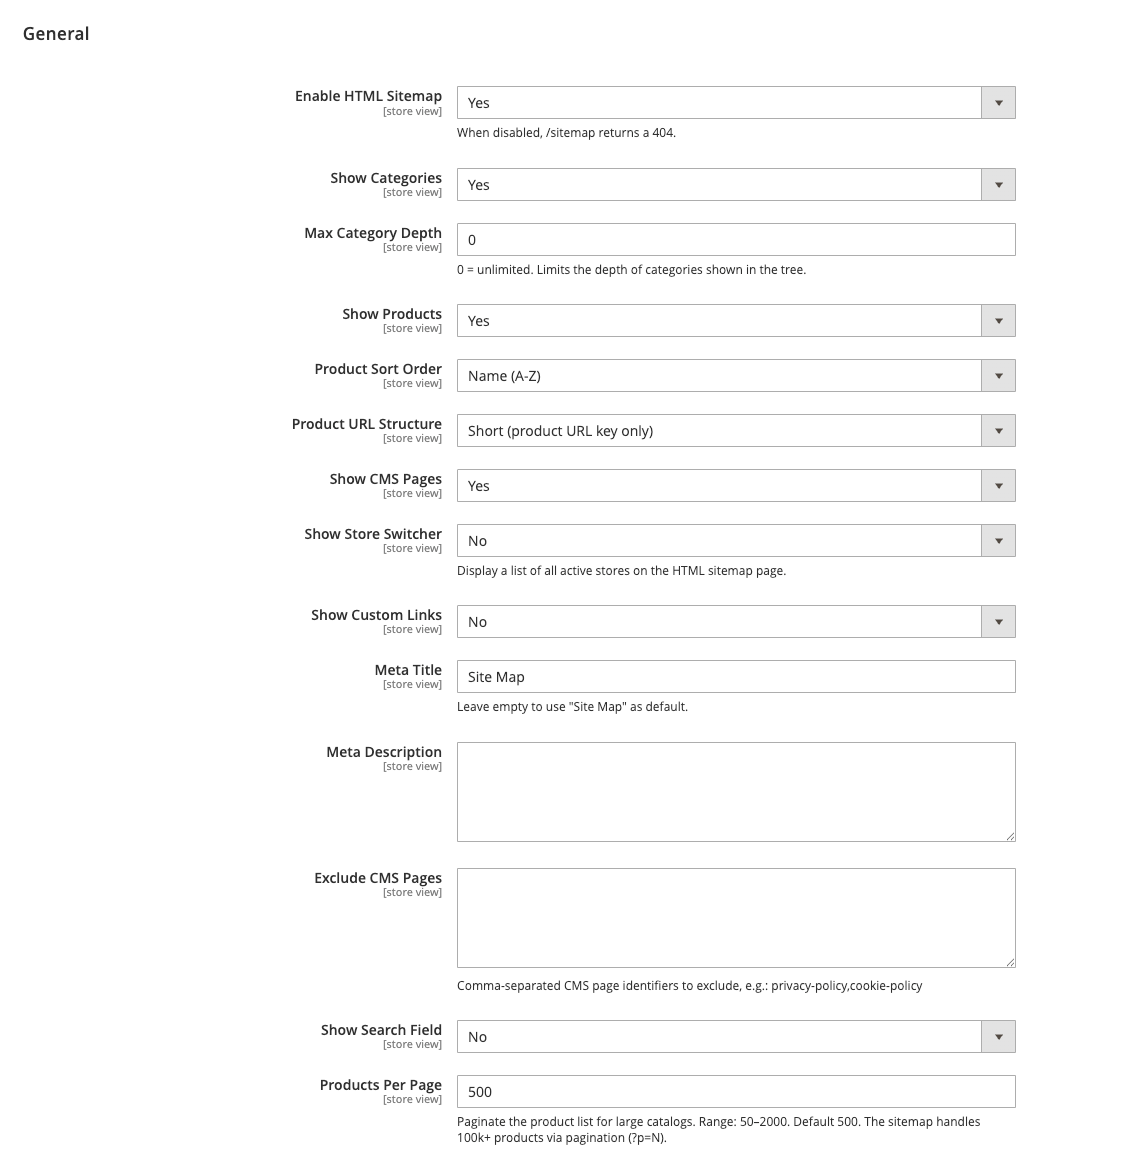
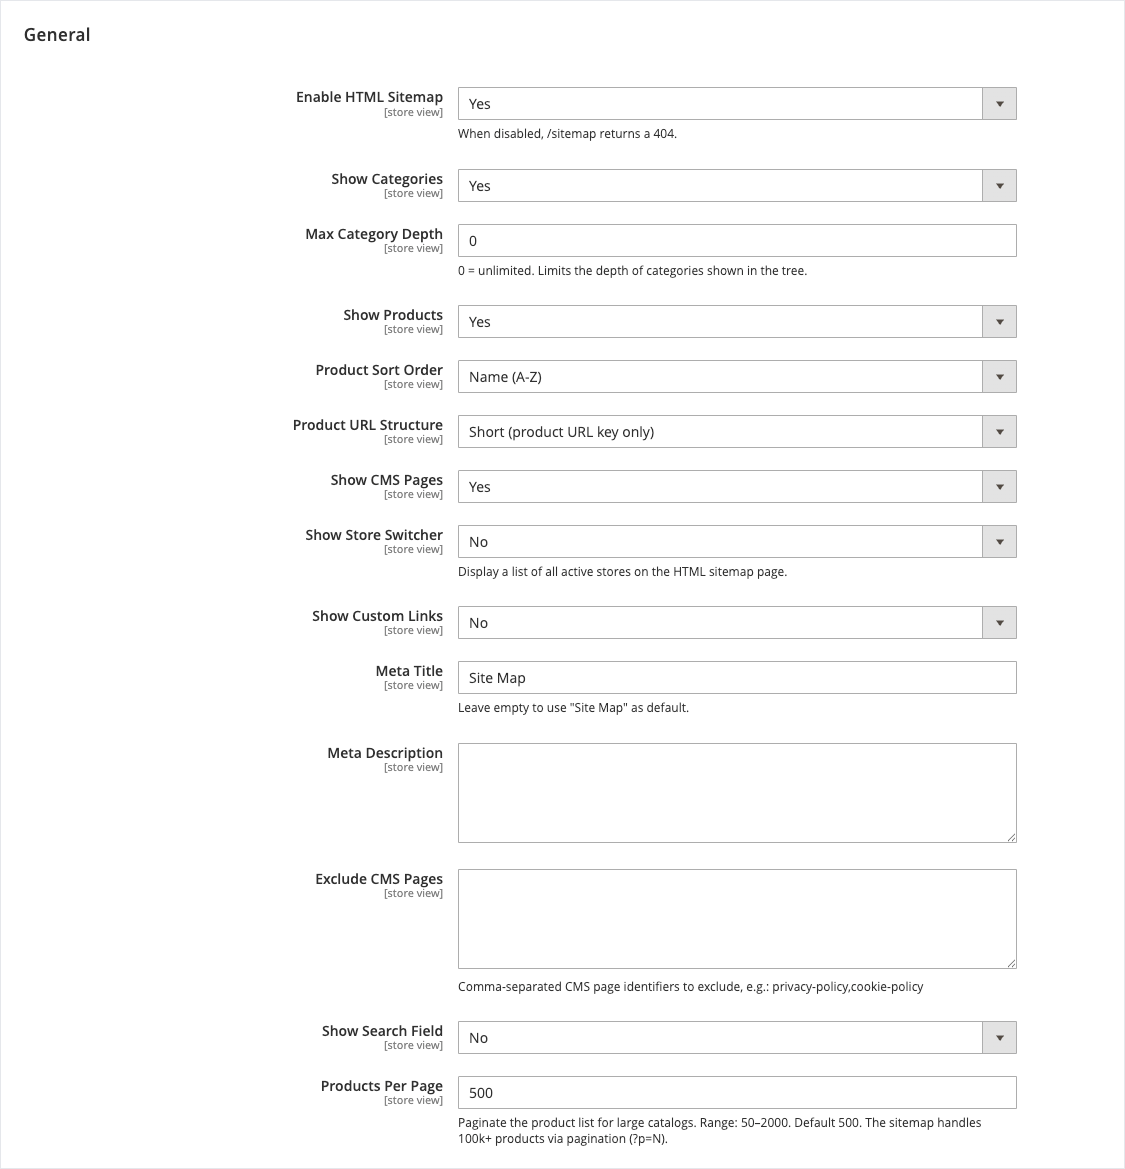
docs: add full Preview gallery (Admin + Hyva + Luma screenshots, 1.0.3)
Adds 6 new screenshots to docs/ (hyva-hero, hyva-products, hyva-pages,
luma-hero, luma-products, luma-pages) alongside the existing admin
configuration screenshot.

README Preview section restructured into three parts:
- Admin Configuration (full-width)
- Frontend - Hyva theme  (3-col table: hero / products / pages)
- Frontend - Luma theme  (3-col table: hero / products / pages)

Each theme section is captioned to point out that the same plain-PHP +
vanilla-JS + prefix-scoped-CSS template produces identical output on both
stores.

Image pipeline:
- Resized all 7 images to 1400px max width via sips (preserves aspect).
- Polished with ImageMagick in Docker: 1px #e5e7eb border (separates
  screenshots from GitHub's white page background), strip metadata,
  recompress at quality=92.
- Total docs/ size ~1.8 MB for 7 detail-rich screenshots.

Bump 1.0.2 -> 1.0.3.

diff --git a/README.md b/README.md
@@ -31,7 +31,45 @@ Magento's built-in XML sitemap is for Google. This module is for **humans** — 
 
 ![Admin Configuration — Stores → Configuration → Panth Infotech → HTML Sitemap](docs/admin-configuration.png)
 
-*All 15 toggles at **Stores → Configuration → Panth Infotech → HTML Sitemap** — enable master switch, show categories (with max-depth limit), show products (with sort order, URL structure, and pagination), show CMS pages (with exclude list), show store switcher, show custom links, meta title / description, client-side search field, and products-per-page (configurable 50–2000, default 500 — the sitemap handles 100k+ products via `?p=N` pagination).*
+*All 15 toggles at **Stores → Configuration → Panth Infotech → HTML Sitemap** — master switch, show categories (with max-depth limit), show products (with sort order, URL structure, pagination), show CMS pages (with exclude list), show store switcher, show custom links, meta title / description, client-side search field, and **products-per-page** (50–2000, default 500 — the sitemap handles 100k+ products via `?p=N` pagination).*
+
+---
+
+### Frontend — Hyvä theme
+
+<table>
+<tr>
+<td width="33%" align="center"><b>Hero + Categories tree</b></td>
+<td width="33%" align="center"><b>Product grid</b></td>
+<td width="33%" align="center"><b>CMS pages</b></td>
+</tr>
+<tr>
+<td><a href="docs/hyva-hero.png"><img src="docs/hyva-hero.png" alt="Hyvä — hero banner + category tree with 'On this page' sidebar"/></a></td>
+<td><a href="docs/hyva-products.png"><img src="docs/hyva-products.png" alt="Hyvä — paginated product grid with image, name, price"/></a></td>
+<td><a href="docs/hyva-pages.png"><img src="docs/hyva-pages.png" alt="Hyvä — CMS pages section and footer"/></a></td>
+</tr>
+</table>
+
+*Native Hyvä styling — gradient hero with live counts (categories / products / pages), sticky "On this page" sidebar, and a scoped stylesheet so nothing leaks into the theme's Tailwind bundle.*
+
+---
+
+### Frontend — Luma theme
+
+<table>
+<tr>
+<td width="33%" align="center"><b>Hero + Categories tree</b></td>
+<td width="33%" align="center"><b>Product grid</b></td>
+<td width="33%" align="center"><b>CMS pages</b></td>
+</tr>
+<tr>
+<td><a href="docs/luma-hero.png"><img src="docs/luma-hero.png" alt="Luma — hero banner + category tree with 'On this page' sidebar"/></a></td>
+<td><a href="docs/luma-products.png"><img src="docs/luma-products.png" alt="Luma — paginated product grid"/></a></td>
+<td><a href="docs/luma-pages.png"><img src="docs/luma-pages.png" alt="Luma — CMS pages section and footer"/></a></td>
+</tr>
+</table>
+
+*Identical markup on Luma — the template is plain PHP + vanilla JS + prefix-scoped CSS (`.panth-htmlsitemap`), so the same rendering logic produces the same output under Luma's RequireJS layer without any theme-specific overrides.*
 
 ---
 

diff --git a/CHANGELOG.md b/CHANGELOG.md
@@ -4,6 +4,18 @@ All notable changes to this extension are documented here. The format is
 based on [Keep a Changelog](https://keepachangelog.com/en/1.1.0/), and this
 project adheres to [Semantic Versioning](https://semver.org/).
 
+## [1.0.3]
+
+### Added
+- **Full Preview gallery** in README — 7 screenshots organised into three
+  sections: Admin Configuration, Frontend — Hyvä theme, Frontend — Luma
+  theme. Each theme section is a 3-column table showing the hero + tree,
+  product grid, and CMS-pages block side by side, demonstrating that the
+  theme-agnostic template produces identical output on both stores.
+- All screenshots resized to 1400px max width (via `sips`) and polished
+  with a 1px `#e5e7eb` border (via ImageMagick) so they don't blend into
+  the white GitHub page background. Metadata stripped for privacy.
+
 ## [1.0.2]
 
 ### Added
